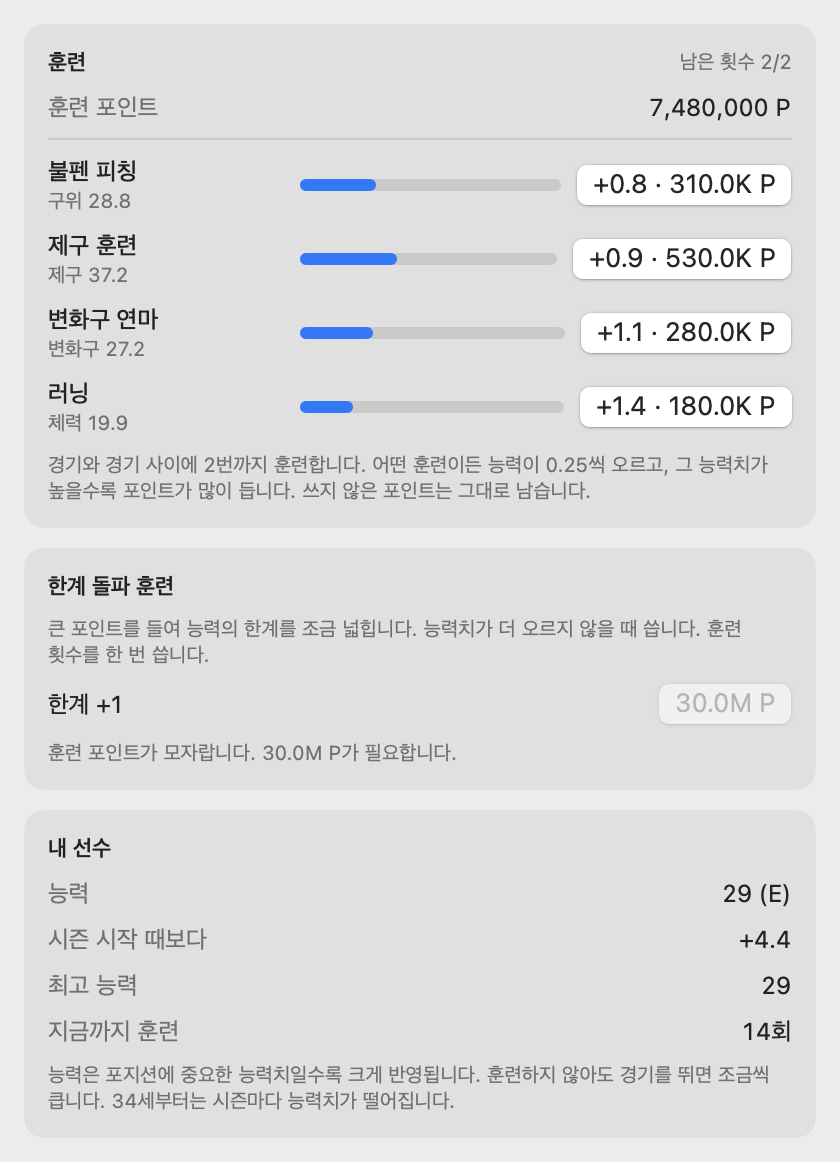
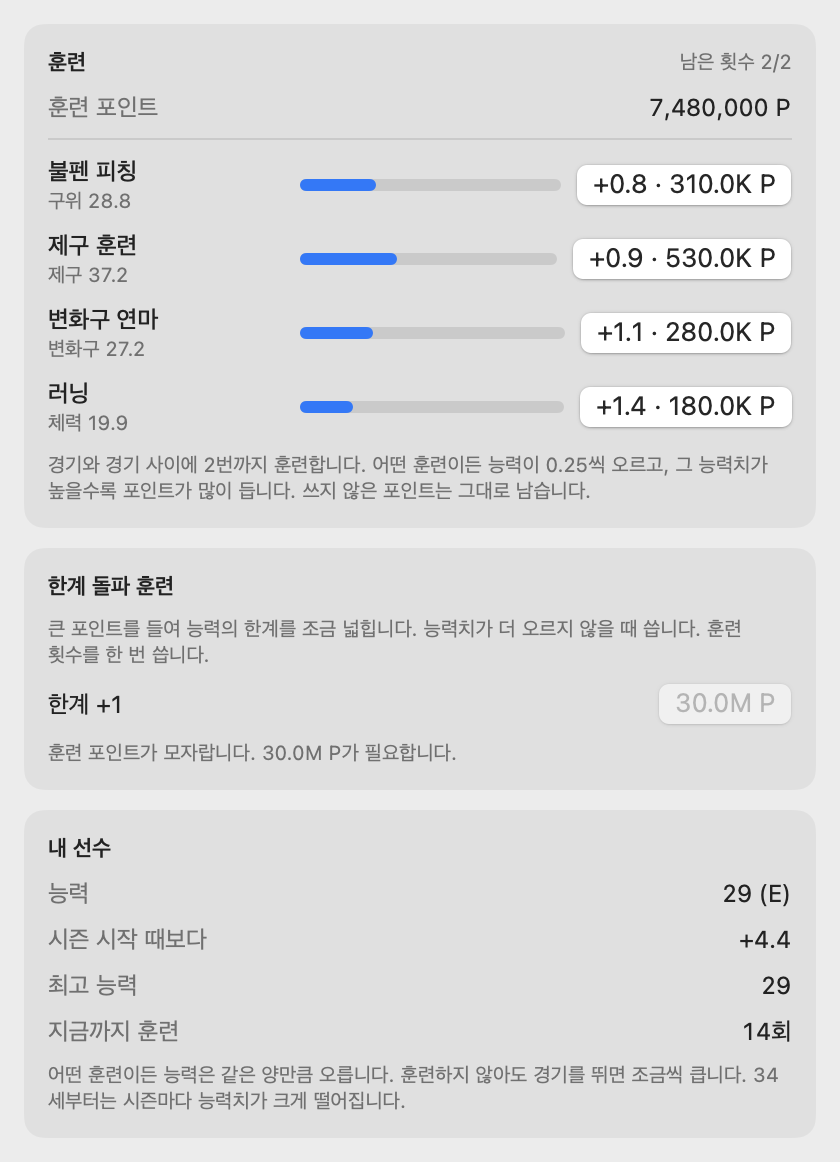
Fix the shoot-out winner in aggregate second legs and the scope of suspensions
A second leg can go to a shoot-out with an unequal score on the night; the
result now follows the shoot-out. A ban is served in the next league or
play-off match and does not apply to friendlies. Doc tables re-measured on
the final constants.

Changed region(s): [[0.0619, 0.8985, 0.9286, 0.9604]]

diff --git a/Tests/TokenBaseballCoreTests/RulesReviewTests.swift b/Tests/TokenBaseballCoreTests/RulesReviewTests.swift
@@ -315,3 +315,46 @@ enum ReviewGame {
         }
     }
 }
+
+@Suite struct FootballReviewFollowUpTests {
+    @Test func 합산_이차전은_그날_점수가_달라도_승부차기_승자가_이긴다() throws {
+        // 1차전에서 원정 팀이 2:1로 이긴 뒤의 2차전: 홈 팀이 1:0으로 이기면 합산 2:2라 승부차기로 간다.
+        let game = ReviewGame.football(seed: 91)
+        let home = game.teams(in: .citizenAmateur)[0].id, away = game.teams(in: .citizenAmateur)[1].id
+        var rules = FootballRules(mustHaveWinner: true, homeEdge: 0.01)
+        rules.firstLegHome = 1
+        rules.firstLegAway = 2
+        var sawAwayShootoutWin = false, sawUnequalScoreShootout = false
+        for seed in 1...400 as ClosedRange<UInt64> {
+            guard var match = game.makeFootballMatch(home: home, away: away, kind: .playoff, seed: seed, rules: rules)
+            else { continue }
+            match.runToEnd()
+            guard match.wentToShootout else { continue }
+            // 승부차기는 합산이 같을 때만 간다.
+            #expect(match.home.goals + 1 == match.away.goals + 2)
+            sawUnequalScoreShootout = true
+            let shootoutHome = match.home.shootoutGoals > match.away.shootoutGoals
+            #expect(match.result == (shootoutHome ? .homeWin : .awayWin))
+            if !shootoutHome { sawAwayShootoutWin = true }
+        }
+        #expect(sawUnequalScoreShootout)
+        #expect(sawAwayShootoutWin)
+    }
+
+    @Test func 출장_정지는_친선_경기에_적용되지_않고_플레이오프에서도_채워진다() throws {
+        var game = ReviewGame.football(seed: 92)
+        let lineup = try #require(FootballLineupBuilder.build(team: game.userTeam, players: game.players))
+        let banned = lineup.starters[3].id
+        game.players[banned]?.suspendedMatches = 1
+        let friendly = try #require(FootballLineupBuilder.build(
+            team: game.userTeam, players: game.players, ignoreSuspensions: true))
+        #expect(friendly.starters.contains { $0.id == banned })
+
+        // 플레이오프 경기도 정지를 채운다.
+        let other = game.teams(in: .citizenAmateur).first { $0.id != game.userTeamID }!.id
+        var match = try #require(game.makeFootballMatch(home: game.userTeamID, away: other, kind: .playoff, seed: 3))
+        match.runToEnd()
+        game.applyFootball(match, tier: .citizenAmateur, countsForStandings: false, competitive: true)
+        #expect(game.players[banned]?.suspendedMatches == nil)
+    }
+}

diff --git a/Sources/TokenBaseballCore/Game+Football.swift b/Sources/TokenBaseballCore/Game+Football.swift
@@ -25,8 +25,9 @@ extension Game {
         var homeTeam = teams[home], awayTeam = teams[away]
         homeTeam.formation = formation(of: home)
         awayTeam.formation = formation(of: away)
-        guard let homeSide = FootballLineupBuilder.side(team: homeTeam, players: players),
-              let awaySide = FootballLineupBuilder.side(team: awayTeam, players: players)
+        let friendly = kind == .friendly
+        guard let homeSide = FootballLineupBuilder.side(team: homeTeam, players: players, ignoreSuspensions: friendly),
+              let awaySide = FootballLineupBuilder.side(team: awayTeam, players: players, ignoreSuspensions: friendly)
         else { return nil }
         return FootballMatch(
             away: awaySide, home: homeSide, rules: rules ?? footballRules(for: kind, home: home), seed: seed)
@@ -134,7 +135,7 @@ extension Game {
             summary += settle(.regular)
             round += 1
         case .playoff:
-            applyFootball(state, tier: userTier, countsForStandings: false)
+            applyFootball(state, tier: userTier, countsForStandings: false, competitive: true)
             if let index = series.firstIndex(where: { !$0.isDecided && $0.involves(userTeamID) }) {
                 recordPlayoffGame(
                     index, home: state.home.teamID, homeScore: state.home.goals, awayScore: state.away.goals,
@@ -157,10 +158,13 @@ extension Game {
     }
 
     /// 경기 결과를 선수 기록·순위표에 반영한다.
-    mutating func applyFootball(_ state: FootballMatch, tier: LeagueTier, countsForStandings: Bool) {
+    /// `competitive`: 출장 정지를 채우는 경기인지 (리그 경기와 플레이오프). 친선 경기는 아니다.
+    mutating func applyFootball(
+        _ state: FootballMatch, tier: LeagueTier, countsForStandings: Bool, competitive: Bool? = nil
+    ) {
         for (side, opponent) in [(state.home, state.away), (state.away, state.home)] {
             let teamID = side.teamID
-            if countsForStandings {
+            if competitive ?? countsForStandings {
                 // 이 경기를 쉬며 출장 정지를 채운 선수들.
                 for id in teams[teamID].roster {
                     if let left = players[id]?.suspendedMatches, left > 0 {

diff --git a/Sources/TokenBaseball/Views/Career/CareerTrainingTab.swift b/Sources/TokenBaseball/Views/Career/CareerTrainingTab.swift
@@ -35,7 +35,7 @@ struct CareerTrainingTab: View {
                     KeyValueRow(key: "시즌 시작 때보다", value: String(format: "%+.1f", me.ability - me.abilityAtSeasonStart))
                     KeyValueRow(key: "최고 능력", value: "\(Int(career.peakAbility))")
                     KeyValueRow(key: "지금까지 훈련", value: "\(career.trainingCount)회")
-                    Text("능력은 포지션에 중요한 능력치일수록 크게 반영됩니다. 훈련하지 않아도 경기를 뛰면 조금씩 큽니다. 34세부터는 시즌마다 능력치가 떨어집니다.").note()
+                    Text("어떤 훈련이든 능력은 같은 양만큼 오릅니다. 훈련하지 않아도 경기를 뛰면 조금씩 큽니다. \(Balance.declineStartAge(me.position))세부터는 시즌마다 능력치가 크게 떨어집니다.").note()
                 }
             }
         }
@@ -47,7 +47,7 @@ struct CareerTrainingTab: View {
         return HStack(spacing: 8) {
             VStack(alignment: .leading, spacing: 1) {
                 Text(CareerDrill.name(key, sport: game.sport)).font(.callout.weight(.medium))
-                Text("\(key.label) \(String(format: "%.1f", value))").note()
+                Text("\(label(key)) \(String(format: "%.1f", value))").note()
             }
             .frame(width: 118, alignment: .leading)
             Bar(fraction: value / 99, color: .accentColor)
@@ -55,8 +55,13 @@ struct CareerTrainingTab: View {
                 model.perform { try $0.trainCareer(key) }
             }
             .disabled(blocked != nil)
-            .help(blocked ?? "\(key.label) +\(String(format: "%.1f", game.careerTrainingGain(key)))")
+            .help(blocked ?? "\(label(key)) +\(String(format: "%.1f", game.careerTrainingGain(key)))")
         }
+    }
+
+    /// 주력과 스피드는 같은 능력치다. 종목에 맞는 이름으로 보여 준다.
+    private func label(_ key: Attributes.Key) -> String {
+        game.sport == .football && key == .speed ? "스피드" : key.label
     }
 
     private func trainingNote(_ career: Career, _ me: Player) -> String {

diff --git a/Sources/TokenBaseballCore/League/FootballLineup.swift b/Sources/TokenBaseballCore/League/FootballLineup.swift
@@ -19,10 +19,13 @@ public enum FootballLineupBuilder {
 
     /// 능력 순으로 자동 구성한다. 내가 정한 선발 11명이 있고 쓸 수 있으면 그것을 따른다.
     /// 골키퍼 1명을 포함해 11명이 있어야 한다.
-    public static func build(team: Team, players: [PlayerID: Player]) -> FootballLineup? {
+    /// `ignoreSuspensions`: 친선 경기에는 출장 정지가 적용되지 않는다.
+    public static func build(
+        team: Team, players: [PlayerID: Player], ignoreSuspensions: Bool = false
+    ) -> FootballLineup? {
         let everyone = team.roster.compactMap { players[$0] }.filter { $0.position.sport == .football }
         // 출장 정지 중인 선수는 뺀다. 빼고 나서 경기를 치를 수 없으면 정지를 무시한다.
-        let available = everyone.filter { ($0.suspendedMatches ?? 0) <= 0 }
+        let available = everyone.filter { ignoreSuspensions || ($0.suspendedMatches ?? 0) <= 0 }
         let fieldable = available.count >= Balance.footballStarters
             && available.contains { $0.position == .goalkeeper }
         let roster = fieldable ? available : everyone
@@ -83,8 +86,10 @@ public enum FootballLineupBuilder {
     }
 
     /// 경기 엔진에 넘길 팀 구성.
-    public static func side(team: Team, players: [PlayerID: Player]) -> FootballSide? {
-        guard let lineup = build(team: team, players: players) else { return nil }
+    public static func side(
+        team: Team, players: [PlayerID: Player], ignoreSuspensions: Bool = false
+    ) -> FootballSide? {
+        guard let lineup = build(team: team, players: players, ignoreSuspensions: ignoreSuspensions) else { return nil }
         func state(_ id: PlayerID, slot: Position, starts: Bool) -> FootballPlayerState? {
             guard let player = players[id] else { return nil }
             let a = player.attributes

diff --git a/Sources/TokenBaseballCore/Career/Game+Career.swift b/Sources/TokenBaseballCore/Career/Game+Career.swift
@@ -117,7 +117,7 @@ extension Game {
     func careerFootballStarts(kind: MatchKind) -> Bool {
         guard let career, let me = players[career.playerID], let teamID = me.teamID else { return false }
         // 출장 정지 중에는 리그 경기에 나서지 못한다.
-        if kind == .regular, (me.suspendedMatches ?? 0) > 0 { return false }
+        if kind != .friendly, (me.suspendedMatches ?? 0) > 0 { return false }
         let team = teams[teamID]
         let quota = formation(of: teamID).slots.filter { $0 == me.position }.count
         let peers = roster(of: teamID).filter { $0.position == me.position && $0.id != me.id }
@@ -148,7 +148,9 @@ extension Game {
         team.lineupOverride = []
         team.formation = formation(of: userTeamID)
         self.career?.subMinute = nil
-        guard let auto = FootballLineupBuilder.build(team: team, players: players) else { return }
+        guard let auto = FootballLineupBuilder.build(
+            team: team, players: players, ignoreSuspensions: kind == .friendly)
+        else { return }
         var ids = auto.starters.map(\.id)
         if starts, !ids.contains(me.id) {
             let same = ids.indices.filter { players[ids[$0]]?.position == me.position }
@@ -165,7 +167,7 @@ extension Game {
             }
         }
         teams[userTeamID].lineupOverride = ids == auto.starters.map(\.id) ? [] : ids
-        let banned = kind == .regular && (me.suspendedMatches ?? 0) > 0
+        let banned = kind != .friendly && (me.suspendedMatches ?? 0) > 0
         if !ids.contains(me.id), me.position != .goalkeeper, !banned {
             self.career?.subMinute = Balance.careerSubMinute(trust: career.trust)
         }

diff --git a/Sources/TokenBaseballCore/Match/FootballMatch.swift b/Sources/TokenBaseballCore/Match/FootballMatch.swift
@@ -63,10 +63,12 @@ public struct FootballMatch: Codable, Equatable, Sendable {
 
     public var result: MatchResult? {
         guard isFinished else { return nil }
-        if home.goals != away.goals { return home.goals > away.goals ? .homeWin : .awayWin }
-        if home.shootoutGoals != away.shootoutGoals {
+        // 승부차기까지 갔으면 승부차기로 정한다. 두 경기 합산의 2차전은 그날 점수가 달라도
+        // 합산이 같아 승부차기로 갈 수 있으므로, 점수보다 먼저 본다.
+        if wentToShootout, home.shootoutGoals != away.shootoutGoals {
             return home.shootoutGoals > away.shootoutGoals ? .homeWin : .awayWin
         }
+        if home.goals != away.goals { return home.goals > away.goals ? .homeWin : .awayWin }
         return .draw
     }
 

diff --git a/Sources/TokenBaseballCore/Game+Playoffs.swift b/Sources/TokenBaseballCore/Game+Playoffs.swift
@@ -191,7 +191,7 @@ extension Game {
                         rules: footballPlayoffRules(entry, home: home))
                     else { series[index].upperWins = 2; break }
                     match.runToEnd()
-                    applyFootball(match, tier: entry.upperTier, countsForStandings: false)
+                    applyFootball(match, tier: entry.upperTier, countsForStandings: false, competitive: true)
                     recordPlayoffGame(
                         index, home: home, homeScore: match.home.goals, awayScore: match.away.goals,
                         shootoutHomeWon: match.wentToShootout ? match.result == .homeWin : nil)

diff --git a/Sources/TokenBaseball/Views/LeagueTab.swift b/Sources/TokenBaseball/Views/LeagueTab.swift
@@ -73,6 +73,7 @@ struct LeagueTab: View {
             Text(game.sport == .football
                 ? "팀을 누르면 선수단을 볼 수 있습니다. 1위는 자동 승격, 2~5위는 승격 플레이오프(한 팀 승격), 9위와 10위는 자동 강등."
                 : "팀을 누르면 선수단을 볼 수 있습니다. 1위는 자동 승격, 2위와 3위는 와일드카드를 거쳐 윗 리그 9위와 승강 플레이오프, 10위는 자동 강등.").note()
+                .fixedSize(horizontal: false, vertical: true)
                 .frame(maxWidth: .infinity, alignment: .leading)
         }
     }

diff --git a/docs/review/football.md b/docs/review/football.md
@@ -6,20 +6,22 @@
 
 ## 측정값
 
-검토 때 잰 값(리그당 2,160경기 × 스냅샷 5개)과, 고친 뒤 다시 잰 값(리그당 180경기)이다. "실제"는 대략의 범위다.
+검토 때 잰 값(리그당 2,160경기 × 스냅샷 5개)과, 고친 뒤 다시 잰 값(리그당 540경기)이다. "실제"는 대략의 범위다.
 
 | 항목 (한 경기) | 고치기 전 | 고친 뒤 | 실제 축구 |
 |---|---|---|---|
-| 골 | 2.6~3.1 | 2.6~2.9 | 2.5~3.2 |
-| 홈 승 / 무 / 원정 승 (1부) | 52~54 / 22~23 / 23~24 % | 44 / 22 / 33 % | 41~46 / 24~27 / 29~33 % |
-| 홈 승 / 무 / 원정 승 (6부) | 44~46 / 23~26 / 28~32 % | 40 / 26 / 33 % | 같음 |
-| 퇴장 | 0.23~0.30 | 0.07~0.12 | 0.1~0.2 |
-| 경고 | 3.2~3.5 | 2.8~3.1 | 3.3~4.5 |
-| 페널티킥 | 0.51~0.59 | 절반으로 줄임 (다시 재지 않음) | 0.25~0.35 |
-| 코너킥 | 7.3~7.9 | 9.5~10.1 | 약 10 |
-| 슈팅 | 22.8~24.8 | 23.0~24.4 | 24~27 |
-| 7골 이상 경기 | 2~3% | — | 2~3% |
-| 0:0 | 4.4~7.7% | — | 6~8% |
+| 골 | 2.6~3.1 | 2.5~2.8 | 2.5~3.2 |
+| 홈 승 / 무 / 원정 승 (1부) | 52~54 / 22~23 / 23~24 % | 46 / 21 / 34 % | 41~46 / 24~27 / 29~33 % |
+| 홈 승 / 무 / 원정 승 (6부) | 44~46 / 23~26 / 28~32 % | 46 / 25 / 30 % | 같음 |
+| 퇴장 | 0.23~0.30 | 0.10~0.15 | 0.1~0.2 |
+| 경고 | 3.2~3.5 | 2.8~3.2 | 3.3~4.5 |
+| 페널티킥 | 0.51~0.59 | 0.25~0.31 | 0.25~0.35 |
+| 코너킥 | 7.3~7.9 | 9.6~10.0 | 약 10 |
+| 슈팅 | 22.8~24.8 | 23.1~24.6 | 24~27 |
+| 7골 이상 경기 | 2~3% | 다시 재지 않음 | 2~3% |
+| 0:0 | 4.4~7.7% | 다시 재지 않음 | 6~8% |
+
+리그별 홈 승률은 40~48% 사이에서 흔들린다. 경고는 실제보다 조금 적다.
 
 **6:4 같은 점수에 대해**: 리그별 평균 득점은 차이가 없다. 10골 이상 경기의 비율(0.08%)은 평균 2.85골에서 나올 수 있는 값(약 0.1%)과 같다. 세계 전체가 한 시즌에 1,080경기를 치르므로 어딘가에서 시즌에 한 번쯤 나오는 점수이고, 6부의 문제가 아니다.
 
@@ -47,7 +49,7 @@
 | # | 지적 | 처리 |
 |---|---|---|
 | 1 | 승강 구조가 잉글랜드식이 아니다 | **반영** (위) |
-| 2 | 출장 정지가 없고, 경고 누적 퇴장이 실제의 두 배다 | **반영**: 퇴장하면 다음 리그 1경기, 시즌 경고 5장마다 1경기 정지. 이미 경고가 있는 선수는 두 번째 경고를 받을 확률이 절반. 곧바로 퇴장을 2경기로 하라는 권고는 넣지 않았다 (1경기로 통일) |
+| 2 | 출장 정지가 없고, 경고 누적 퇴장이 실제의 두 배다 | **반영**: 퇴장하면 다음 공식 경기(리그 경기나 플레이오프) 1경기, 시즌 경고 5장마다 1경기 정지. 친선 경기에는 적용되지 않는다. 이미 경고가 있는 선수는 두 번째 경고를 받을 확률이 절반. 곧바로 퇴장을 2경기로 하라는 권고는 넣지 않았다 (1경기로 통일) |
 | 3 | 홈 이점이 상위 리그에서 과하다 (1부 홈 승률 52~54%) | **반영**: 홈 보정을 줄였다 |
 | 4 | 페널티킥이 실제의 두 배다 | **반영**: 절반으로 줄이고, 줄어든 득점은 유효 슈팅의 득점률을 조금 올려 메웠다 |
 | 5 | 공격수는 주전이어도 65분만 뛴다 (체력이 능력에 들어가지 않아 낮게 만들어지고, 선수 모드에서는 훈련할 수도 없다) | **반영**: 공격수의 능력에 체력을 넣었다. 선수 모드에서도 훈련할 수 있다 |

diff --git a/docs/review/baseball.md b/docs/review/baseball.md
@@ -10,17 +10,17 @@
 
 | 지표 | 1부 전 → 후 | 6부 전 → 후 | 실제 |
 |---|---|---|---|
-| 득점 | 5.5 → 3.9 | 4.1~4.2 → 4.4 | 4.4~5.4 |
+| 득점 | 5.5 → 4.2 | 4.1~4.2 → 4.6 | 4.4~5.4 |
 | 홈런 | 2.4~2.6 → 0.9 | 0.6 → 0.9 | 0.7~1.0 |
-| 타율 | .254~.258 → .249 | .260~.268 → .257 | .260~.277 |
-| 출루율 | .306~.311 → .316 | .306~.315 → .315 | .335~.352 |
-| 장타율 | .511~.523 → .385 | .365~.377 → .386 | .375~.420 |
-| 볼넷 비율 | 7.0~7.3 → 8.9 % | 6.5 → 7.8 % | 9~10 % |
+| 타율 | .254~.258 → .248 | .260~.268 → .266 | .260~.277 |
+| 출루율 | .306~.311 → .320 | .306~.315 → .322 | .335~.352 |
+| 장타율 | .511~.523 → .387 | .365~.377 → .394 | .375~.420 |
+| 볼넷 비율 | 7.0~7.3 → 9.5 % | 6.5 → 7.5 % | 9~10 % |
 | 도루 | 0.7~0.8 → 0.4 | 0.00 → 0.2 | 0.6~0.9 |
-| 선발 평균자책점 | 5.4~5.7 → 3.9 | 3.9~4.3 → 4.0 | 4.1~4.9 |
+| 선발 평균자책점 | 5.4~5.7 → 4.2 | 3.9~4.3 → 4.6 | 4.1~4.9 |
 | 팀당 투수 수 | 2.9~3.0 → 3.3 | 2.7~2.9 → 2.9 | 4.5~5 |
 
-고친 뒤의 값에서 아직 실제와 어긋나는 것: 1부 득점과 출루율이 조금 낮고, 도루가 적고, 경기당 투수 수가 적다.
+고친 뒤의 값에서 아직 실제와 어긋나는 것: 출루율이 조금 낮고, 도루가 적고, 경기당 투수 수가 적다. 2부는 득점이 3.8로 다른 리그보다 낮게 나왔다 (180경기 표본의 흔들림인지는 가리지 못했다).
 
 ## 승강
 

diff --git a/docs/07-football.md b/docs/07-football.md
@@ -69,7 +69,7 @@
 | 연장·승부차기 | 승격 플레이오프만 (준결승 2차전에서 합산이 같을 때, 결승에서 비겼을 때). 연장 전후반 15분씩, 그래도 같으면 승부차기 |
 | 오프사이드 | 있음 (공격이 끊기는 장면으로 나온다) |
 | 경고·퇴장 | 경고 2장이면 퇴장. 퇴장당하면 그 경기를 10명으로 치른다. 이미 경고를 받은 선수는 조심해서 두 번째 경고를 덜 받는다 |
-| 출장 정지 | ✅ **퇴장하면 다음 리그 한 경기**, **시즌 경고 다섯 장마다 한 경기**를 쉰다. 정지 중인 선수는 선발과 벤치에서 빠진다. 새 시즌이 시작되면 지워진다 |
+| 출장 정지 | ✅ **퇴장하면 다음 리그 한 경기**, **시즌 경고 다섯 장마다 한 경기**를 쉰다. 정지 중인 선수는 선발과 벤치에서 빠진다. 리그 경기와 플레이오프 한 경기를 쉬면 풀리고, 친선 경기에는 적용되지 않는다. 새 시즌이 시작되면 지워진다 |
 | 페널티킥 | 전·후반이 끝나는 순간에 주어진 페널티킥은 차고 나서 끝낸다 |
 | 부상 | 💡 처음에는 없음 |
 

diff --git a/docs/02-match.md b/docs/02-match.md
@@ -147,12 +147,12 @@
 
 | 지표 (팀당 한 경기) | 1부 | 3부 | 6부 | 실제 야구 |
 |---|---|---|---|---|
-| 득점 | 3.9 | 4.6 | 4.4 | 4.4~5.4 |
+| 득점 | 4.2 | 4.5 | 4.6 | 4.4~5.4 |
 | 홈런 | 0.9 | 0.9 | 0.9 | 0.7~1.0 |
-| 타율 | .249 | .257 | .257 | .260~.277 |
-| 출루율 | .316 | .321 | .315 | .335~.352 |
-| 볼넷 비율 | 8.9% | 8.6% | 7.8% | 9~10% |
-| 도루 | 0.4 | 0.3 | 0.2 | 0.6~0.9 |
+| 타율 | .248 | .256 | .266 | .260~.277 |
+| 출루율 | .320 | .324 | .322 | .335~.352 |
+| 볼넷 비율 | 9.5% | 9.1% | 7.5% | 9~10% |
+| 도루 | 0.4 | 0.2 | 0.2 | 0.6~0.9 |
 
 한 리그 180경기씩 잰 값이라 ±0.3점쯤 흔들린다. 출루율과 도루는 아직 조금 낮다.
 
